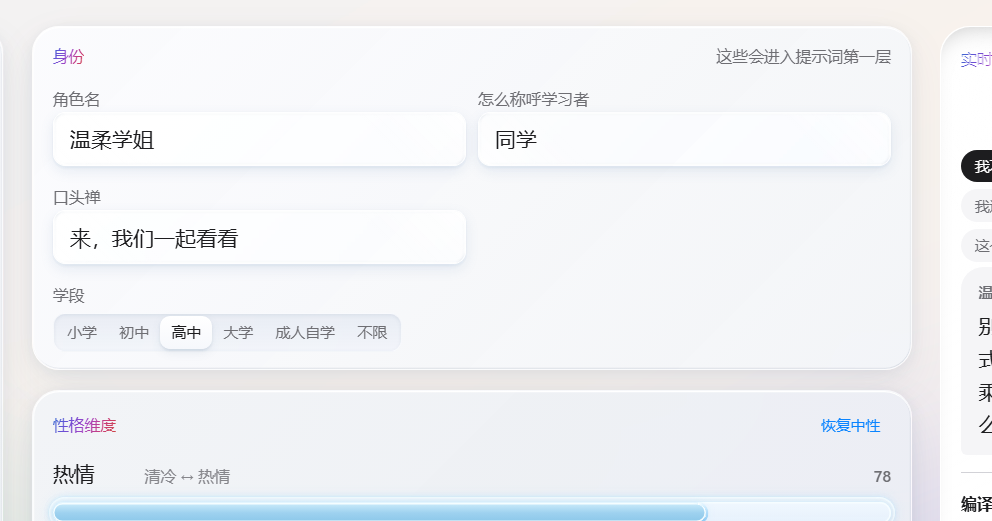
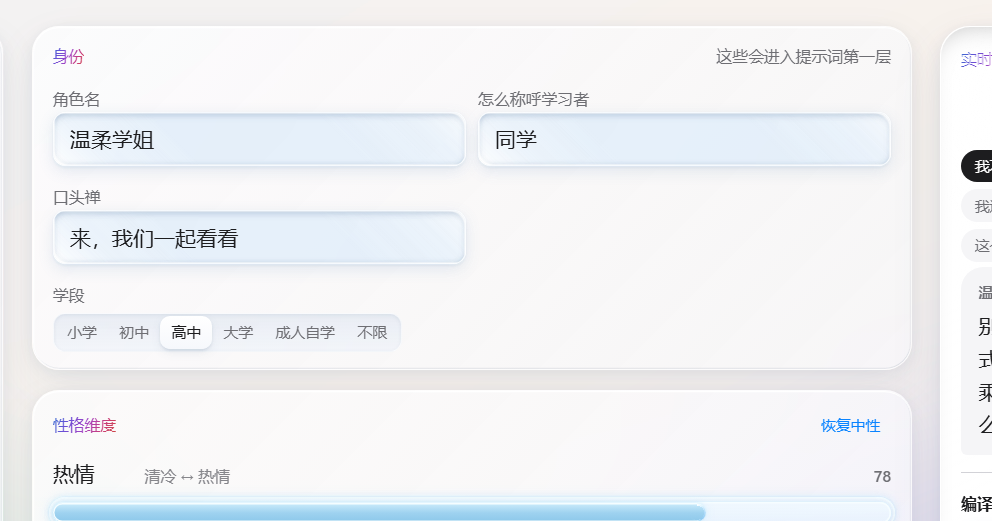
style(app): 文字框改得更透亮、一眼能看出玻璃
先做了一版"更透"的：底色 rgba(228,242,255,.16) + blur(18px) saturate(200%)。
结果量出来是失败的一版：
  INPUT_INSIDE (250,252,255)
  CARD_SURFACE (249,252,253)
  DELTA (1,0,2)          <- 输入框和卡片几乎同色，等于看不见
  RIM_VS_INSIDE (1,0,-1) <- 白高光压在近白上，没有对比

原因：卡片本身就是近白色，白色反光边没有东西可对比。
iOS 的玻璃能看出来，是因为它背后是有明暗的壁纸。

改法：让玻璃体比卡片【深一档】，白边才有对比。
  background-color  rgba(228,242,255,.16) -> rgba(196,219,242,.42)
  hover              -> rgba(188,214,240,.5)
  内壁暗角            inset 0 3px 7px -3px rgba(74,110,150,.55)（原 .45）
  外投影同步加深

复测：
  INPUT_INSIDE (230,240,250)
  CARD_SURFACE (251,249,250)
  DELTA_INPUT_VS_CARD (21,9,0)   <- 一眼能分开
  边界处 DELTA (15,18,21)        <- 边有明确的明暗台阶
Electron 与原型 HTML 均已重建。

diff --git a/prototypes/Costudy-UI-原型.html b/prototypes/Costudy-UI-原型.html
@@ -2917,29 +2917,35 @@ body[data-backdrop="photo"] .v-wiz .steps {
 .input,
 .textarea,
 .compiled-text {
-  /* ① 斜向高光：左上角与右下角各一道白，中间透出底色 */
+  /* 玻璃体：底色几乎清空，让背后透上来 —— 这是"透"的关键 */
+  /* 比卡片表面深一档的淡蓝灰：白色高光才有东西可对比 */
+  background-color: rgba(196, 219, 242, 0.42);
+  /* ① 45° 反光：左上角一道强白，右下角一道弱白，中间全透 */
   background-image: linear-gradient(
     45deg,
-    rgba(255, 255, 255, 0.62) 0%,
-    rgba(255, 255, 255, 0) 24%,
-    rgba(255, 255, 255, 0) 76%,
-    rgba(255, 255, 255, 0.62) 100%
+    rgba(255, 255, 255, 0.92) 0%,
+    rgba(255, 255, 255, 0.28) 12%,
+    rgba(255, 255, 255, 0) 32%,
+    rgba(255, 255, 255, 0) 68%,
+    rgba(255, 255, 255, 0.2) 88%,
+    rgba(255, 255, 255, 0.66) 100%
   );
-  background-color: rgba(255, 255, 255, 0.1);
-  -webkit-backdrop-filter: blur(3px) brightness(1.02) saturate(1.05);
-  backdrop-filter: blur(3px) brightness(1.02) saturate(1.05);
-  border: 1px solid rgba(255, 255, 255, 0.42);
+  /* ② 重模糊 + 高饱和 + 提亮：iOS 的"透亮"就是这三件事 */
+  -webkit-backdrop-filter: blur(18px) saturate(200%) brightness(1.1);
+  backdrop-filter: blur(18px) saturate(200%) brightness(1.1);
+  border: 1px solid rgba(255, 255, 255, 0.62);
   box-shadow:
-    /* ② 内亮边：左上 / 右下（对比方向，模拟折射） */
-    inset 2px -2px 1px -1px rgba(255, 255, 255, 0.92),
-    inset -2px 2px 1px -1px rgba(255, 255, 255, 0.92),
-    /* 更宽的次亮边，给玻璃厚度感 */
-    inset 6px -6px 1px -6px rgba(255, 255, 255, 0.55),
-    inset -6px 6px 1px -6px rgba(255, 255, 255, 0.55),
-    /* ③ 内暗边：玻璃内壁的暗侧面 */
-    inset 0 0 2px rgba(90, 120, 150, 0.28),
-    /* ④ 外投影 */
-    0 4px 10px rgba(96, 135, 180, 0.14),
+    /* ③ 内亮边：左上最亮、右下次之，方向相反才是玻璃而不是描边 */
+    inset 1.5px -1.5px 1px -1px rgba(255, 255, 255, 1),
+    inset -1.5px 1.5px 1px -1px rgba(255, 255, 255, 0.9),
+    /* ④ 更宽的次亮边：给厚度 */
+    inset 5px -5px 1px -5px rgba(255, 255, 255, 0.6),
+    inset -5px 5px 1px -5px rgba(255, 255, 255, 0.5),
+    /* ⑤ 内壁暗角：上下各压一点，玻璃才有凹进去的厚度 */
+    inset 0 3px 7px -3px rgba(74, 110, 150, 0.55),
+    inset 0 -2px 5px -3px rgba(74, 110, 150, 0.38),
+    /* ⑥ 外投影 */
+    0 4px 12px rgba(96, 135, 180, 0.16),
     0 1px 2px rgba(96, 135, 180, 0.1);
   transition:
     box-shadow 200ms var(--ease-out),
@@ -2947,19 +2953,21 @@ body[data-backdrop="photo"] .v-wiz .steps {
     background-color 200ms ease;
 }
 
-/* 悬停：高光更亮一点，像光在玻璃上移了一点 */
+/* 悬停：反光更强，像光在玻璃面上扫过 */
 @media (hover: hover) {
   .input:hover,
   .textarea:hover,
   .compiled-text:hover {
-    border-color: rgba(255, 255, 255, 0.55);
+    background-color: rgba(188, 214, 240, 0.5);
+    border-color: rgba(255, 255, 255, 0.78);
     box-shadow:
-      inset 3px -3px 1px -1px rgba(255, 255, 255, 1),
-      inset -3px 3px 1px -1px rgba(255, 255, 255, 1),
-      inset 7px -7px 1px -7px rgba(255, 255, 255, 0.62),
-      inset -7px 7px 1px -7px rgba(255, 255, 255, 0.62),
-      inset 0 0 2px rgba(90, 120, 150, 0.3),
-      0 5px 12px rgba(96, 135, 180, 0.18),
+      inset 2px -2px 1px -1px rgba(255, 255, 255, 1),
+      inset -2px 2px 1px -1px rgba(255, 255, 255, 1),
+      inset 6px -6px 1px -6px rgba(255, 255, 255, 0.7),
+      inset -6px 6px 1px -6px rgba(255, 255, 255, 0.6),
+      inset 0 3px 7px -4px rgba(90, 125, 160, 0.5),
+      inset 0 -2px 4px -3px rgba(90, 125, 160, 0.32),
+      0 5px 14px rgba(96, 135, 180, 0.2),
       0 1px 2px rgba(96, 135, 180, 0.12);
   }
 }

diff --git a/prototypes/costudy-ui/liquid-input.css b/prototypes/costudy-ui/liquid-input.css
@@ -18,29 +18,35 @@
 .input,
 .textarea,
 .compiled-text {
-  /* ① 斜向高光：左上角与右下角各一道白，中间透出底色 */
+  /* 玻璃体：底色几乎清空，让背后透上来 —— 这是"透"的关键 */
+  /* 比卡片表面深一档的淡蓝灰：白色高光才有东西可对比 */
+  background-color: rgba(196, 219, 242, 0.42);
+  /* ① 45° 反光：左上角一道强白，右下角一道弱白，中间全透 */
   background-image: linear-gradient(
     45deg,
-    rgba(255, 255, 255, 0.62) 0%,
-    rgba(255, 255, 255, 0) 24%,
-    rgba(255, 255, 255, 0) 76%,
-    rgba(255, 255, 255, 0.62) 100%
+    rgba(255, 255, 255, 0.92) 0%,
+    rgba(255, 255, 255, 0.28) 12%,
+    rgba(255, 255, 255, 0) 32%,
+    rgba(255, 255, 255, 0) 68%,
+    rgba(255, 255, 255, 0.2) 88%,
+    rgba(255, 255, 255, 0.66) 100%
   );
-  background-color: rgba(255, 255, 255, 0.1);
-  -webkit-backdrop-filter: blur(3px) brightness(1.02) saturate(1.05);
-  backdrop-filter: blur(3px) brightness(1.02) saturate(1.05);
-  border: 1px solid rgba(255, 255, 255, 0.42);
+  /* ② 重模糊 + 高饱和 + 提亮：iOS 的"透亮"就是这三件事 */
+  -webkit-backdrop-filter: blur(18px) saturate(200%) brightness(1.1);
+  backdrop-filter: blur(18px) saturate(200%) brightness(1.1);
+  border: 1px solid rgba(255, 255, 255, 0.62);
   box-shadow:
-    /* ② 内亮边：左上 / 右下（对比方向，模拟折射） */
-    inset 2px -2px 1px -1px rgba(255, 255, 255, 0.92),
-    inset -2px 2px 1px -1px rgba(255, 255, 255, 0.92),
-    /* 更宽的次亮边，给玻璃厚度感 */
-    inset 6px -6px 1px -6px rgba(255, 255, 255, 0.55),
-    inset -6px 6px 1px -6px rgba(255, 255, 255, 0.55),
-    /* ③ 内暗边：玻璃内壁的暗侧面 */
-    inset 0 0 2px rgba(90, 120, 150, 0.28),
-    /* ④ 外投影 */
-    0 4px 10px rgba(96, 135, 180, 0.14),
+    /* ③ 内亮边：左上最亮、右下次之，方向相反才是玻璃而不是描边 */
+    inset 1.5px -1.5px 1px -1px rgba(255, 255, 255, 1),
+    inset -1.5px 1.5px 1px -1px rgba(255, 255, 255, 0.9),
+    /* ④ 更宽的次亮边：给厚度 */
+    inset 5px -5px 1px -5px rgba(255, 255, 255, 0.6),
+    inset -5px 5px 1px -5px rgba(255, 255, 255, 0.5),
+    /* ⑤ 内壁暗角：上下各压一点，玻璃才有凹进去的厚度 */
+    inset 0 3px 7px -3px rgba(74, 110, 150, 0.55),
+    inset 0 -2px 5px -3px rgba(74, 110, 150, 0.38),
+    /* ⑥ 外投影 */
+    0 4px 12px rgba(96, 135, 180, 0.16),
     0 1px 2px rgba(96, 135, 180, 0.1);
   transition:
     box-shadow 200ms var(--ease-out),
@@ -48,19 +54,21 @@
     background-color 200ms ease;
 }
 
-/* 悬停：高光更亮一点，像光在玻璃上移了一点 */
+/* 悬停：反光更强，像光在玻璃面上扫过 */
 @media (hover: hover) {
   .input:hover,
   .textarea:hover,
   .compiled-text:hover {
-    border-color: rgba(255, 255, 255, 0.55);
+    background-color: rgba(188, 214, 240, 0.5);
+    border-color: rgba(255, 255, 255, 0.78);
     box-shadow:
-      inset 3px -3px 1px -1px rgba(255, 255, 255, 1),
-      inset -3px 3px 1px -1px rgba(255, 255, 255, 1),
-      inset 7px -7px 1px -7px rgba(255, 255, 255, 0.62),
-      inset -7px 7px 1px -7px rgba(255, 255, 255, 0.62),
-      inset 0 0 2px rgba(90, 120, 150, 0.3),
-      0 5px 12px rgba(96, 135, 180, 0.18),
+      inset 2px -2px 1px -1px rgba(255, 255, 255, 1),
+      inset -2px 2px 1px -1px rgba(255, 255, 255, 1),
+      inset 6px -6px 1px -6px rgba(255, 255, 255, 0.7),
+      inset -6px 6px 1px -6px rgba(255, 255, 255, 0.6),
+      inset 0 3px 7px -4px rgba(90, 125, 160, 0.5),
+      inset 0 -2px 4px -3px rgba(90, 125, 160, 0.32),
+      0 5px 14px rgba(96, 135, 180, 0.2),
       0 1px 2px rgba(96, 135, 180, 0.12);
   }
 }

diff --git a/src/renderer/src/styles/liquid-input.css b/src/renderer/src/styles/liquid-input.css
@@ -18,29 +18,35 @@
 .input,
 .textarea,
 .compiled-text {
-  /* ① 斜向高光：左上角与右下角各一道白，中间透出底色 */
+  /* 玻璃体：底色几乎清空，让背后透上来 —— 这是"透"的关键 */
+  /* 比卡片表面深一档的淡蓝灰：白色高光才有东西可对比 */
+  background-color: rgba(196, 219, 242, 0.42);
+  /* ① 45° 反光：左上角一道强白，右下角一道弱白，中间全透 */
   background-image: linear-gradient(
     45deg,
-    rgba(255, 255, 255, 0.62) 0%,
-    rgba(255, 255, 255, 0) 24%,
-    rgba(255, 255, 255, 0) 76%,
-    rgba(255, 255, 255, 0.62) 100%
+    rgba(255, 255, 255, 0.92) 0%,
+    rgba(255, 255, 255, 0.28) 12%,
+    rgba(255, 255, 255, 0) 32%,
+    rgba(255, 255, 255, 0) 68%,
+    rgba(255, 255, 255, 0.2) 88%,
+    rgba(255, 255, 255, 0.66) 100%
   );
-  background-color: rgba(255, 255, 255, 0.1);
-  -webkit-backdrop-filter: blur(3px) brightness(1.02) saturate(1.05);
-  backdrop-filter: blur(3px) brightness(1.02) saturate(1.05);
-  border: 1px solid rgba(255, 255, 255, 0.42);
+  /* ② 重模糊 + 高饱和 + 提亮：iOS 的"透亮"就是这三件事 */
+  -webkit-backdrop-filter: blur(18px) saturate(200%) brightness(1.1);
+  backdrop-filter: blur(18px) saturate(200%) brightness(1.1);
+  border: 1px solid rgba(255, 255, 255, 0.62);
   box-shadow:
-    /* ② 内亮边：左上 / 右下（对比方向，模拟折射） */
-    inset 2px -2px 1px -1px rgba(255, 255, 255, 0.92),
-    inset -2px 2px 1px -1px rgba(255, 255, 255, 0.92),
-    /* 更宽的次亮边，给玻璃厚度感 */
-    inset 6px -6px 1px -6px rgba(255, 255, 255, 0.55),
-    inset -6px 6px 1px -6px rgba(255, 255, 255, 0.55),
-    /* ③ 内暗边：玻璃内壁的暗侧面 */
-    inset 0 0 2px rgba(90, 120, 150, 0.28),
-    /* ④ 外投影 */
-    0 4px 10px rgba(96, 135, 180, 0.14),
+    /* ③ 内亮边：左上最亮、右下次之，方向相反才是玻璃而不是描边 */
+    inset 1.5px -1.5px 1px -1px rgba(255, 255, 255, 1),
+    inset -1.5px 1.5px 1px -1px rgba(255, 255, 255, 0.9),
+    /* ④ 更宽的次亮边：给厚度 */
+    inset 5px -5px 1px -5px rgba(255, 255, 255, 0.6),
+    inset -5px 5px 1px -5px rgba(255, 255, 255, 0.5),
+    /* ⑤ 内壁暗角：上下各压一点，玻璃才有凹进去的厚度 */
+    inset 0 3px 7px -3px rgba(74, 110, 150, 0.55),
+    inset 0 -2px 5px -3px rgba(74, 110, 150, 0.38),
+    /* ⑥ 外投影 */
+    0 4px 12px rgba(96, 135, 180, 0.16),
     0 1px 2px rgba(96, 135, 180, 0.1);
   transition:
     box-shadow 200ms var(--ease-out),
@@ -48,19 +54,21 @@
     background-color 200ms ease;
 }
 
-/* 悬停：高光更亮一点，像光在玻璃上移了一点 */
+/* 悬停：反光更强，像光在玻璃面上扫过 */
 @media (hover: hover) {
   .input:hover,
   .textarea:hover,
   .compiled-text:hover {
-    border-color: rgba(255, 255, 255, 0.55);
+    background-color: rgba(188, 214, 240, 0.5);
+    border-color: rgba(255, 255, 255, 0.78);
     box-shadow:
-      inset 3px -3px 1px -1px rgba(255, 255, 255, 1),
-      inset -3px 3px 1px -1px rgba(255, 255, 255, 1),
-      inset 7px -7px 1px -7px rgba(255, 255, 255, 0.62),
-      inset -7px 7px 1px -7px rgba(255, 255, 255, 0.62),
-      inset 0 0 2px rgba(90, 120, 150, 0.3),
-      0 5px 12px rgba(96, 135, 180, 0.18),
+      inset 2px -2px 1px -1px rgba(255, 255, 255, 1),
+      inset -2px 2px 1px -1px rgba(255, 255, 255, 1),
+      inset 6px -6px 1px -6px rgba(255, 255, 255, 0.7),
+      inset -6px 6px 1px -6px rgba(255, 255, 255, 0.6),
+      inset 0 3px 7px -4px rgba(90, 125, 160, 0.5),
+      inset 0 -2px 4px -3px rgba(90, 125, 160, 0.32),
+      0 5px 14px rgba(96, 135, 180, 0.2),
       0 1px 2px rgba(96, 135, 180, 0.12);
   }
 }
